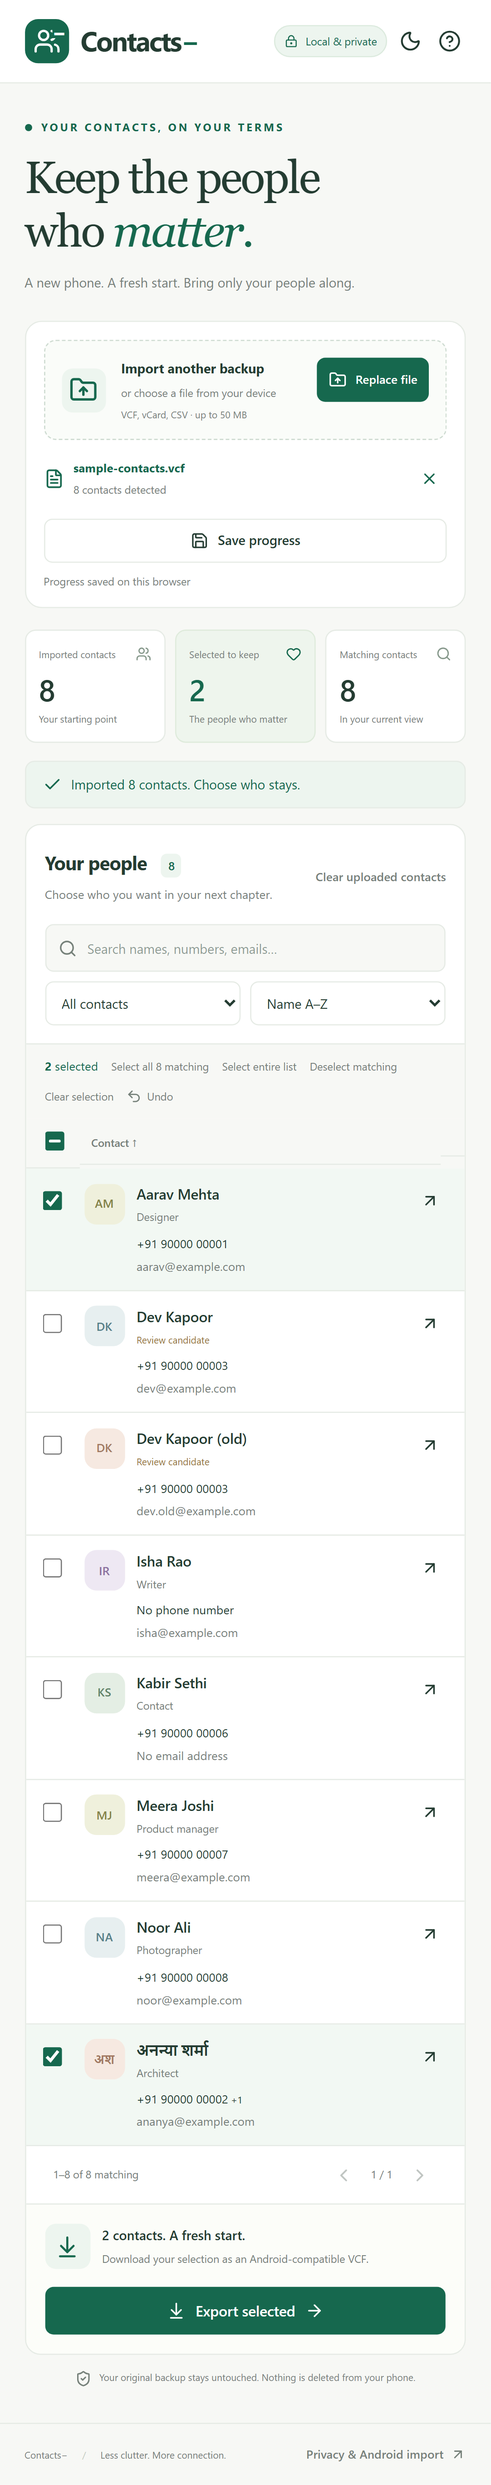
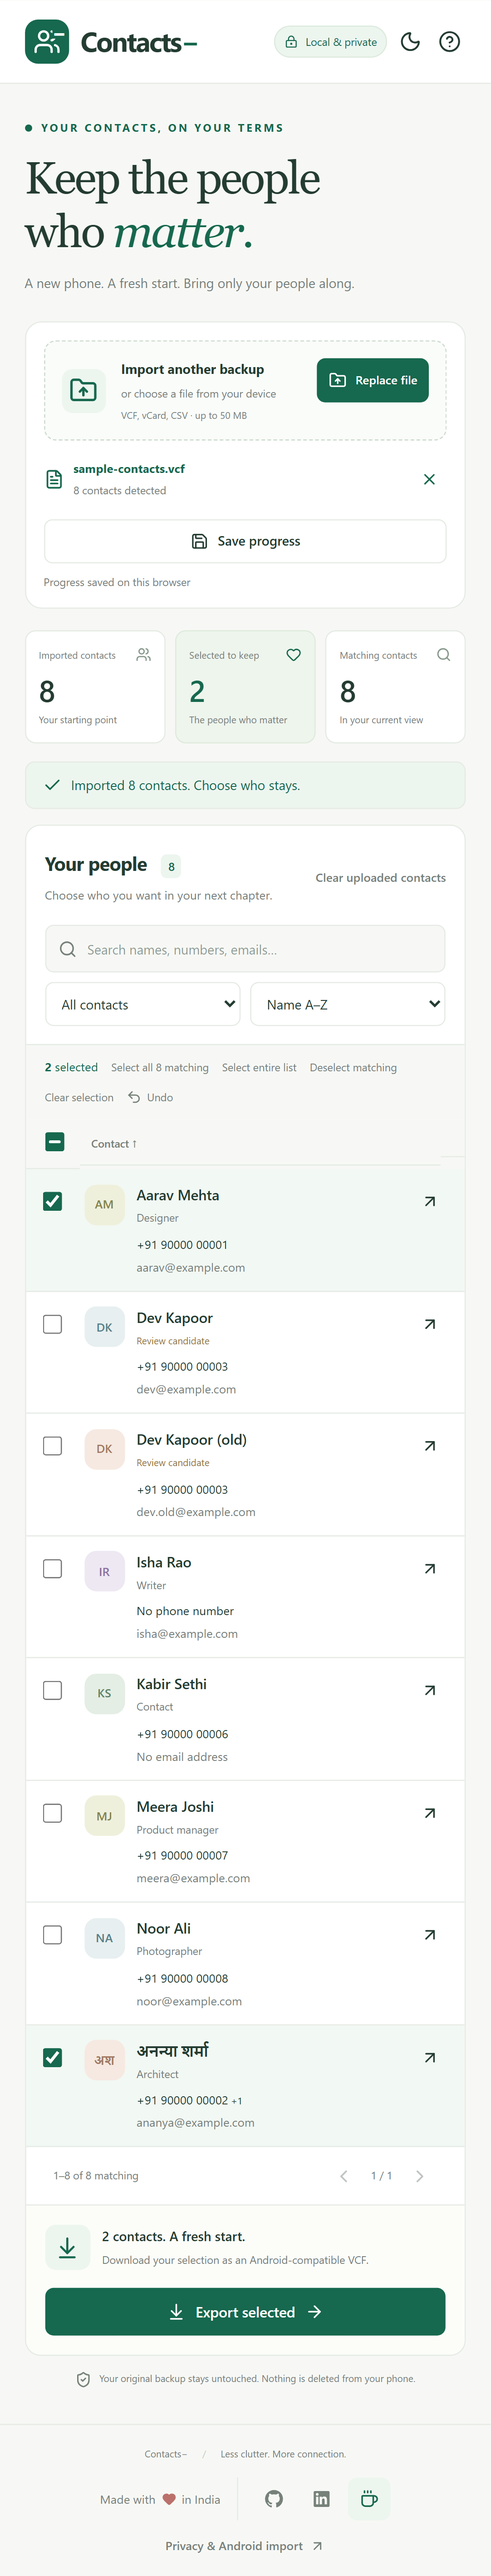
Add made-with-love credit and creator links to footer

diff --git a/src/components/SocialLinks.tsx b/src/components/SocialLinks.tsx
@@ -1,0 +1,40 @@
+import { Coffee } from 'lucide-react';
+
+export function SocialLinks() {
+  return (
+    <nav className="social-links" aria-label="Creator links">
+      <a
+        href="https://github.com/paritoshpky5"
+        target="_blank"
+        rel="noopener noreferrer"
+        aria-label="GitHub profile"
+        title="GitHub"
+      >
+        <svg viewBox="0 0 24 24" fill="currentColor" aria-hidden="true">
+          <path d="M12 .75a11.25 11.25 0 0 0-3.56 21.92c.56.1.77-.24.77-.54v-2.1c-3.13.68-3.79-1.33-3.79-1.33-.51-1.3-1.25-1.65-1.25-1.65-1.02-.7.08-.68.08-.68 1.13.08 1.73 1.16 1.73 1.16 1 1.72 2.64 1.23 3.28.94.1-.73.39-1.23.72-1.51-2.5-.29-5.13-1.25-5.13-5.56 0-1.23.44-2.24 1.16-3.03-.12-.28-.5-1.43.11-2.98 0 0 .95-.3 3.1 1.16a10.8 10.8 0 0 1 5.64 0c2.15-1.46 3.1-1.16 3.1-1.16.61 1.55.23 2.7.11 2.98.72.79 1.16 1.8 1.16 3.03 0 4.32-2.63 5.27-5.14 5.55.4.35.76 1.03.76 2.08v3.1c0 .3.2.65.78.54A11.25 11.25 0 0 0 12 .75Z" />
+        </svg>
+      </a>
+      <a
+        href="https://www.linkedin.com/in/paritoshpky/"
+        target="_blank"
+        rel="noopener noreferrer"
+        aria-label="LinkedIn profile"
+        title="LinkedIn"
+      >
+        <svg viewBox="0 0 24 24" fill="currentColor" aria-hidden="true">
+          <path d="M20.45 2H3.55C2.69 2 2 2.68 2 3.52v16.96c0 .84.69 1.52 1.55 1.52h16.9c.86 0 1.55-.68 1.55-1.52V3.52c0-.84-.69-1.52-1.55-1.52ZM7.93 18.75H4.98V9.2h2.95v9.55ZM6.45 7.9a1.71 1.71 0 1 1 0-3.42 1.71 1.71 0 0 1 0 3.42Zm12.3 10.85H15.8V14.1c0-1.1-.02-2.53-1.54-2.53-1.54 0-1.77 1.2-1.77 2.45v4.73H9.54V9.2h2.83v1.3h.04c.39-.74 1.35-1.53 2.78-1.53 2.97 0 3.56 1.95 3.56 4.48v5.3Z" />
+        </svg>
+      </a>
+      <a
+        href="https://buymeachai.in/paritoshpky555"
+        target="_blank"
+        rel="noopener noreferrer"
+        aria-label="Buy me a chai"
+        title="Buy me a chai"
+        className="chai-link"
+      >
+        <Coffee size={17} aria-hidden="true" />
+      </a>
+    </nav>
+  );
+}

diff --git a/src/styles.css b/src/styles.css
@@ -899,6 +899,51 @@ footer {
   margin: 0 10px;
   color: #c7cfc5;
 }
+.footer-creator {
+  display: flex;
+  align-items: center;
+  gap: 16px;
+}
+.footer-credit {
+  display: inline-flex;
+  align-items: center;
+  gap: 5px;
+  white-space: nowrap;
+}
+.footer-credit svg {
+  color: #bb716b;
+  fill: currentColor;
+}
+.social-links {
+  display: flex;
+  align-items: center;
+  gap: 4px;
+  padding-left: 12px;
+  border-left: 1px solid var(--border);
+}
+.social-links a {
+  display: inline-flex;
+  align-items: center;
+  justify-content: center;
+  width: 32px;
+  height: 32px;
+  border-radius: 8px;
+  transition:
+    color 0.15s,
+    background 0.15s;
+}
+.social-links svg {
+  width: 16px;
+  height: 16px;
+}
+.social-links a:hover {
+  color: var(--green);
+  background: var(--soft);
+}
+.social-links .chai-link {
+  color: var(--green);
+  background: var(--soft);
+}
 .message {
   padding: 11px 14px;
   border: 1px solid var(--border);
@@ -1472,9 +1517,25 @@ footer {
     flex-wrap: wrap;
     margin-top: 17px;
     font-size: 8px;
+    justify-content: center;
+    gap: 14px 20px;
   }
-  footer > span:last-child {
-    display: none;
+  footer > span:first-child {
+    flex-basis: 100%;
+    text-align: center;
+  }
+  .footer-creator {
+    flex-basis: 100%;
+    justify-content: center;
+    gap: 14px;
+    font-size: 10px;
+  }
+  footer > .text-button {
+    order: 1;
+  }
+  .social-links a {
+    width: 36px;
+    height: 36px;
   }
   .modal {
     padding: 22px;

diff --git a/src/App.tsx b/src/App.tsx
@@ -26,6 +26,7 @@ import type { Contact, ContactFilter, ImportResult, SortOrder } from './types/co
 import { duplicateCandidates, filterContacts, updateSelection } from './features/contacts/logic';
 import { exportVcard, parseVcard, propertyParts } from './lib/vcard';
 import { Modal } from './components/Modal';
+import { SocialLinks } from './components/SocialLinks';
 import { clearSession, loadSession, saveSession } from './lib/session';
 import demo from '../public/sample-contacts.vcf?raw';
 
@@ -873,7 +874,12 @@ export default function App() {
         <button className="text-button muted" onClick={() => setModal('help')}>
           Privacy & Android import <ArrowUpRight size={13} />
         </button>
-        <span>Built for a fresh start.</span>
+        <div className="footer-creator">
+          <span className="footer-credit" aria-label="Made with love in India">
+            Made with <Heart size={12} aria-hidden="true" /> in India
+          </span>
+          <SocialLinks />
+        </div>
       </footer>
       {modal === 'help' && (
         <Modal title="A fresh start, in three steps" close={close}>
